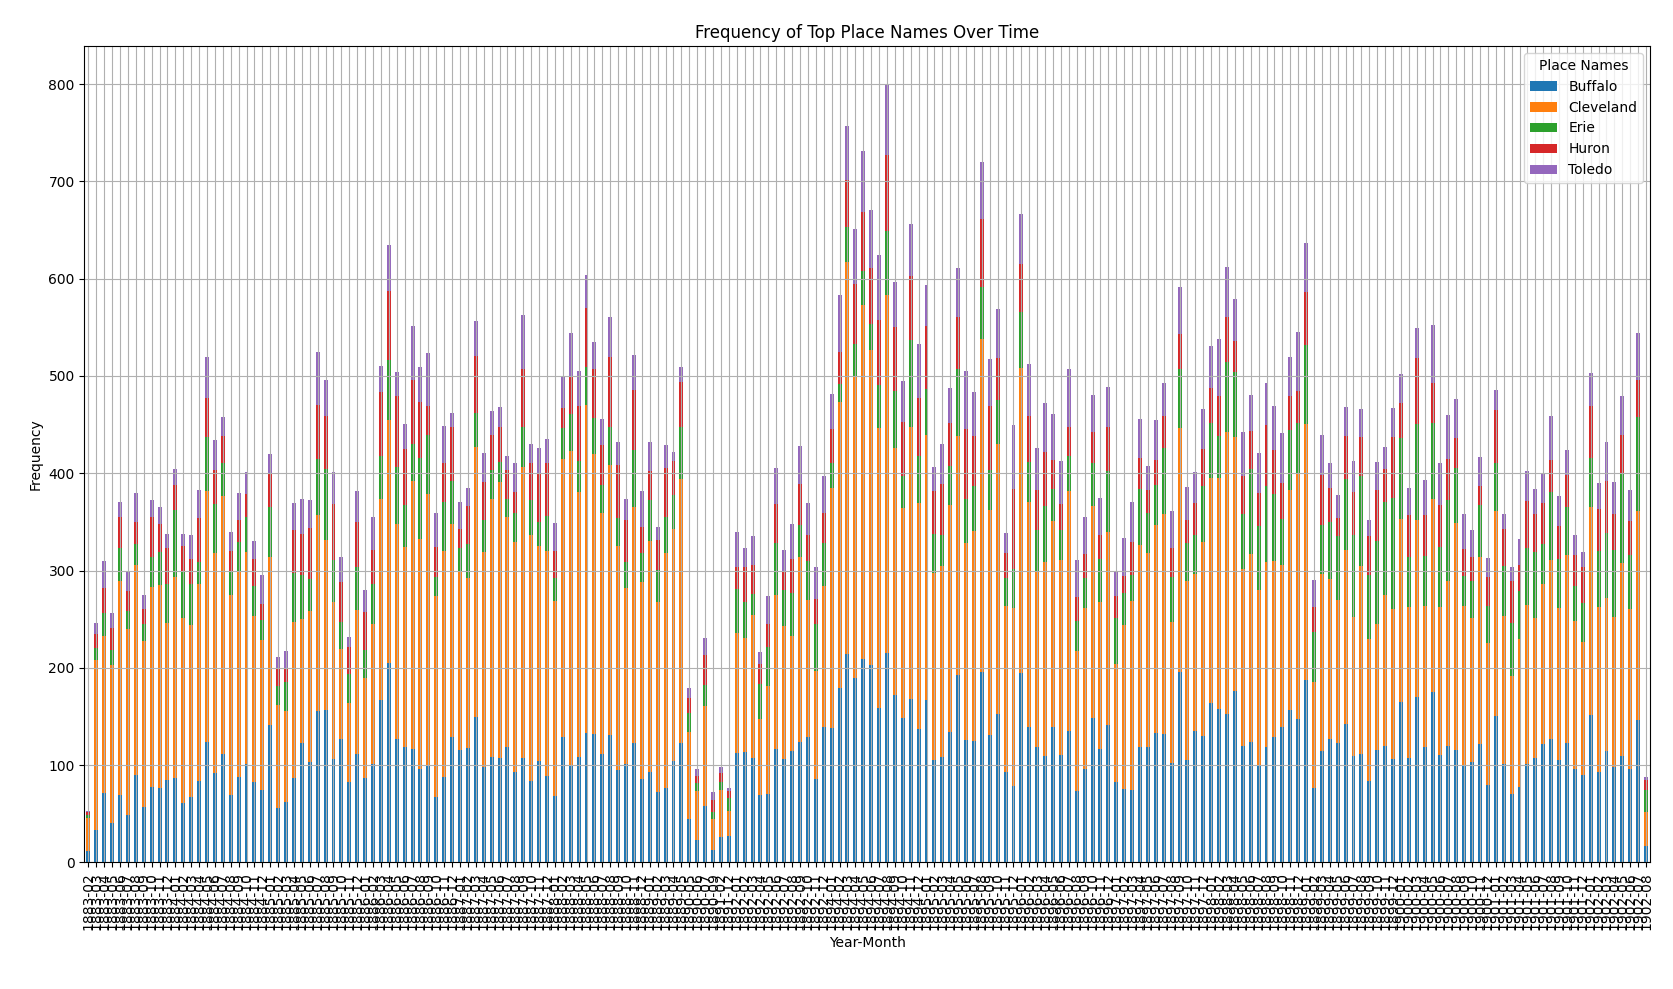
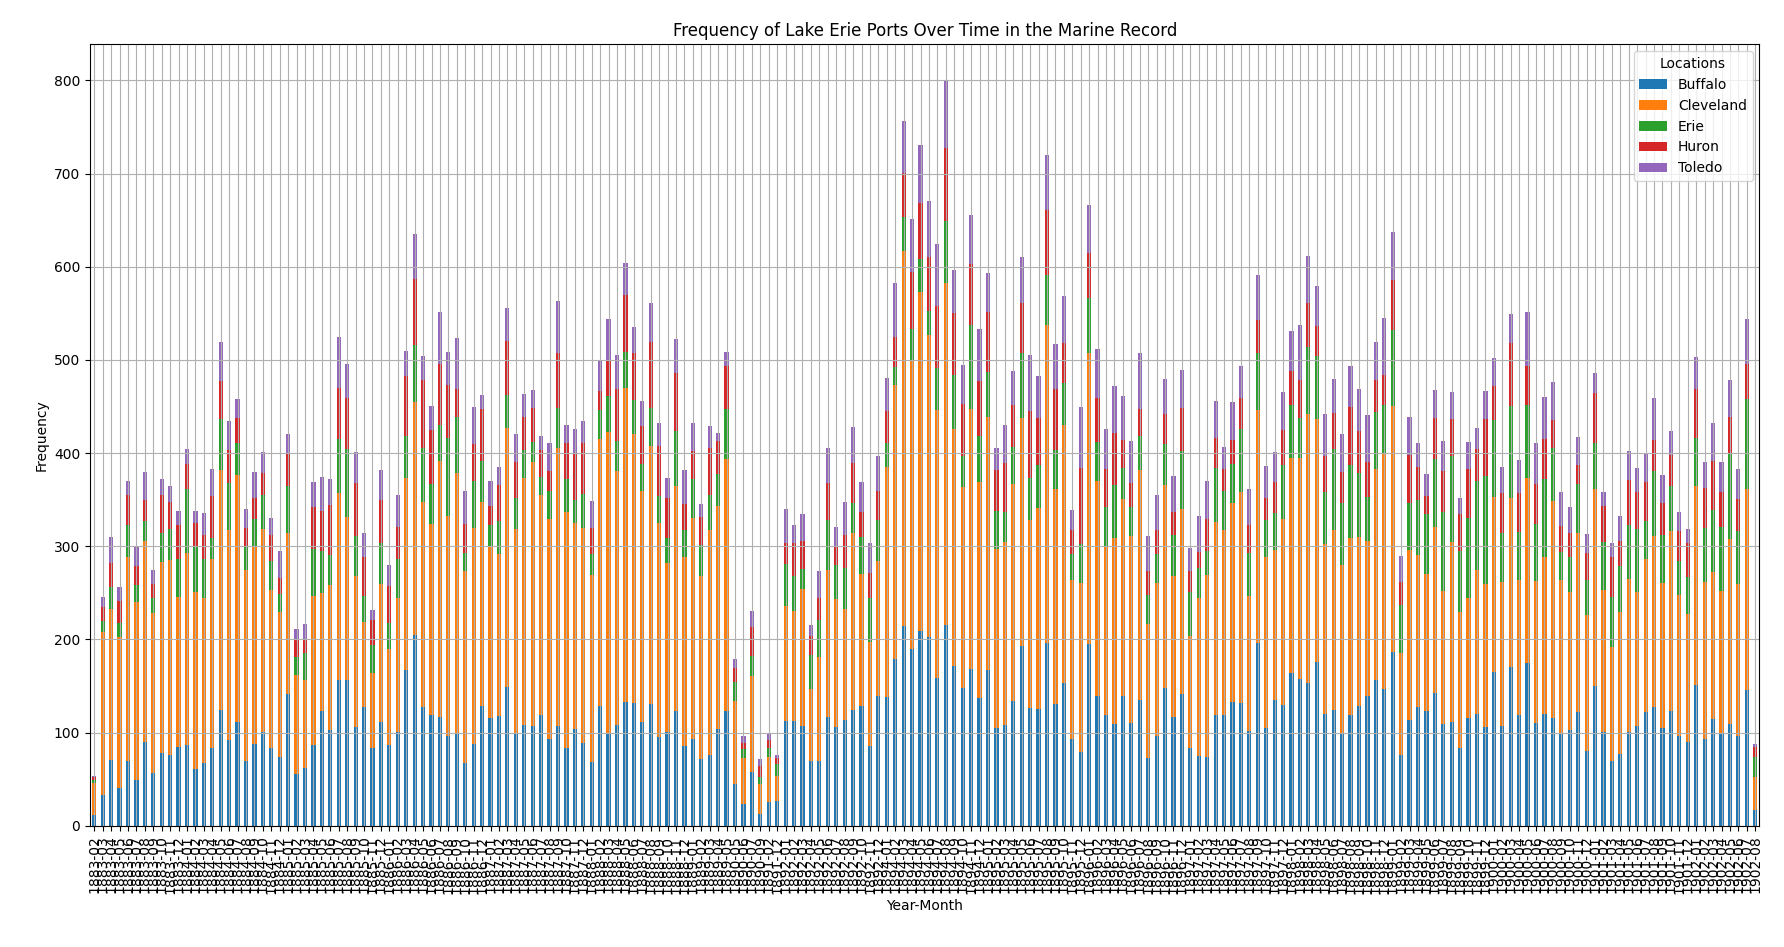
1234

Changed region(s): [[0.0, 0.0, 0.9946, 0.9799]]

diff --git a/word_counts/compare_wordcounts.py b/word_counts/compare_wordcounts.py
@@ -1,0 +1,32 @@
+import json
+import pandas as pd
+import matplotlib.pyplot as plt
+
+review_json = "jsons/review_merged_date.json"
+record_json = "jsons/record_merged_date.json"
+
+def process_json(json_file):
+    with open(json_file, "r") as file:
+        json_data = json.load(file)
+
+    json_df = pd.DataFrame(json_data)
+    json_df['word_count'] = json_df['fulltext'].apply(lambda x: len(x.split()))
+    json_df['issue_date'] = pd.to_datetime(json_df['issue_date'])
+    json_df['year_month'] = json_df['issue_date'].dt.to_period('M')
+    monthly_counts = json_df.groupby('year_month')['word_count'].sum()
+    monthly_counts.index = monthly_counts.index.to_timestamp()
+    return monthly_counts
+
+monthly_counts_review = process_json(review_json)
+monthly_counts_record = process_json(record_json)
+
+plt.figure(figsize=(14, 8))
+plt.plot(monthly_counts_review.index, monthly_counts_review.values, label="Marine Review", color="blue")
+plt.plot(monthly_counts_record.index, monthly_counts_record.values, label="Marine Record", color="orange")
+plt.title("Word Count Over Time Comparing Marine Review asnd Marine Record")
+plt.xlabel("Date")
+plt.ylabel("Word Count")
+plt.grid(True)
+plt.legend()
+plt.tight_layout()
+plt.show()

diff --git a/word_counts/place_name_counts.py b/word_counts/place_name_counts.py
@@ -18,7 +18,7 @@ json_data_df = pd.DataFrame(json_data)
 #places = place_names['place_name'].tolist()
 
 #Load the CSV
-place_names = pd.read_csv("mapping/testplacenames.csv", header=None, names=["place_name"])
+place_names = pd.read_csv("mapping/portstest.csv", header=None, names=["place_name"])
 place_names['place_name'] = place_names['place_name'].str.strip()  # Remove extra spaces
 places = place_names['place_name'].tolist()
 
@@ -64,11 +64,11 @@ print("Rows of monthly_counts:", monthly_counts.head()) #debugging
 #window is rolling average of taht many months.
 monthly_counts_smoothed = monthly_counts.rolling(window=3, axis=0).mean()
 
-monthly_counts.plot(kind="bar", stacked=True, figsize=(14, 8))
-plt.title("Frequency of Top Place Names Over Time")
+monthly_counts.plot(kind="line", stacked=True, figsize=(14, 8))
+plt.title("Frequency of Ports Over Time in the Marine Review")
 plt.xlabel("Year-Month")
 plt.ylabel("Frequency")
-plt.legend(title="Place Names")
+plt.legend(title="Locations")
 plt.grid(True)
 plt.tight_layout()
 plt.show()

diff --git a/word_counts/words.py b/word_counts/words.py
@@ -1,0 +1,27 @@
+import json
+import pandas as pd
+import matplotlib.pyplot as plt
+import re
+
+json_file = input("Enter the file path: ")
+
+# Load JSON data
+with open(json_file, "r") as file:
+    json_data = json.load(file)
+
+json_data = pd.DataFrame(json_data)
+
+json_data['word_count'] = json_data['fulltext'].apply(lambda x: len(x.split()))
+
+json_data['issue_date'] = pd.to_datetime(json_data['issue_date'])
+json_data_grouped = json_data.groupby('issue_date')['word_count'].sum().reset_index()
+
+plt.figure(figsize=(14, 8))
+plt.plot(json_data_grouped['issue_date'], json_data_grouped['word_count'], label="Word Count")
+plt.title("Word Count Over Time, Marine Review")
+plt.xlabel("Date")
+plt.ylabel("Count")
+plt.grid(True)
+plt.legend()
+plt.tight_layout()
+plt.show()

diff --git a/index.md b/index.md
@@ -67,6 +67,7 @@ Instead of asking for user input, we can show the most menioned places from a li
 ![placename graph 1](https://github.com/LibraryBeales/marinemarine/blob/main/graphics/placenames2.png?raw=true)
 ![placename graph 1](https://github.com/LibraryBeales/marinemarine/blob/main/graphics/placenames3.png?raw=true)
 
+NAmes move together, suggest some reports or tables that include ports as part of the data?  
 
 ## Sentiment Analysis
 
